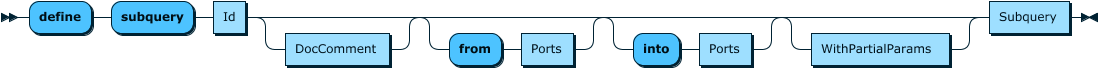
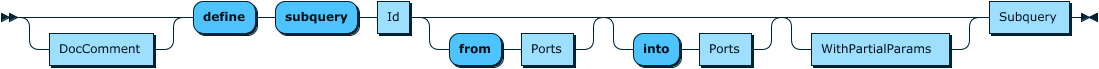
Move DocComment to the begining

Changed region(s): [[0.0, 0.0, 0.4022, 0.9855]]

diff --git a/text/0000-modular-queries.md b/text/0000-modular-queries.md
@@ -21,12 +21,12 @@ Subqueries would allow composition of smaller, reusable queries into higher leve
 ![DefineSubqueryDefn](../img/rfcs/0000-modular-queries/DefineSubqueryDefn.png)
 
 ```
-DefineSubqueryDefn ::= 'define' 'subquery' Id DocComment? ('from' Ports)? ('into' Ports)? WithPartialParams? Subquery
+DefineSubqueryDefn ::= DocComment? 'define' 'subquery' Id ('from' Ports)? ('into' Ports)? WithPartialParams? Subquery
 ```
 
 ```
-define subquery custom_subquery
 ## Documentation Comment
+define subquery custom_subquery
 from input_stream_1, input_stream_2
 into output_stream
 with
@@ -223,7 +223,7 @@ CreateSubqueryDefn ::= 'create' 'subquery' Id ( 'from' ModularId )? WithParams?
 -  **DefineSubqueryDefn**
     - ![DefineSubqueryDefn](../img/rfcs/0000-modular-queries/DefineSubqueryDefn.png)
 ```
-DefineSubqueryDefn ::= 'define' 'subquery' Id ('from' Ports)? ('into' Ports)? WithPartialParams? DocComment? Subquery
+DefineSubqueryDefn ::= DocComment? 'define' 'subquery' Id ('from' Ports)? ('into' Ports)? WithPartialParams? Subquery
 ```
 - **Ports**
     - ![Ports](../img/rfcs/0000-modular-queries/Ports.png)
